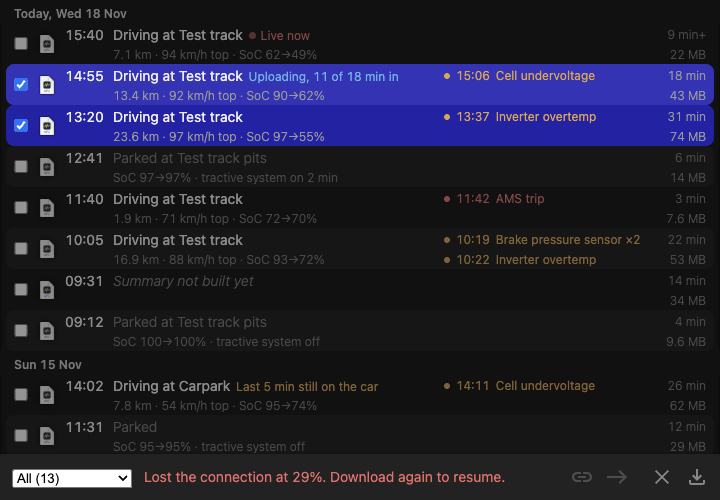
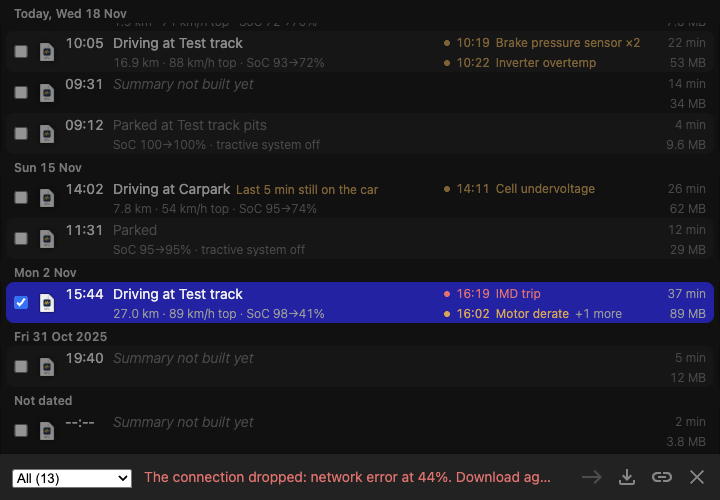
Order the Download runs buttons open, download, copy link, close
Left to right at the bottom right of the popup, with close outermost.
Refreshes the popup screenshots to match.

diff --git a/www/download.html b/www/download.html
@@ -44,17 +44,17 @@
     <progress min="0" max="1" hidden></progress>
     <div class="progress-details" hidden></div>
 
-    <button id="copy-link" title="Copy a link to this run" disabled>
-      <img src="symbols/link.svg" />
-    </button>
     <button id="open" title="Open" disabled>
       <img src="symbols/east.svg" />
     </button>
-    <button id="exit" title="Close">
-      <img src="symbols/close.svg" />
-    </button>
     <button id="download" title="Download" disabled>
       <img src="symbols/download.svg" />
+    </button>
+    <button id="copy-link" title="Copy a link to this run" disabled>
+      <img src="symbols/link.svg" />
+    </button>
+    <button id="exit" title="Close">
+      <img src="symbols/close.svg" />
     </button>
 
     <div class="scrim" hidden>

diff --git a/www/download.css b/www/download.css
@@ -447,19 +447,20 @@ button {
   height: 30px;
 }
 
-#copy-link {
-  right: 123px;
-}
-
+/* Left to right: open, download, copy link, close */
 #open {
-  right: 88px;
-}
-
-#exit {
-  right: 43px;
+  right: 113px;
 }
 
 #download {
+  right: 78px;
+}
+
+#copy-link {
+  right: 43px;
+}
+
+#exit {
   right: 8px;
 }
 
